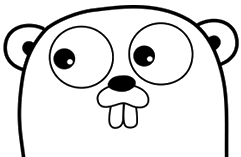
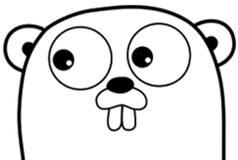
adjust css

diff --git a/web/style.css b/web/style.css
@@ -18,30 +18,38 @@ form.SignInForm, form.SignUpForm{
 	background-color: white;
 	background-origin: content-box;
 	box-shadow: 5px 4px 10px 2px gray;
-	padding-left: 50px;
-	padding-right: 50px;
+	padding-left: 45px;
+	padding-right: 45px;
 	padding-top: 15px;
 	padding-bottom: 25px;
 }
 
 img.SignImg{
-	padding-bottom: 10px;
-	margin-left: 25px;
-	margin-right: 25px;
+	width: 240px;
+	height: 160px;
+	margin-left: 30px;
+	margin-right: 30px;
 	margin-top: 10px;
-	margin-bottom: 5px;
+	margin-bottom: 10px;
 }
 
 input.SignInput{
-	width: 285px;
-	height: 30px;
-}
-
-a.SignUp{
-	font-size: small;	
+	width: 206px;
+	height: 40px;
+	margin-left: 30px;
+	margin-right: 30px;
+	padding-left: 15px;
+	padding-right: 15px;
+	border-width: 2px;
+	border-style: inset;
+	border-color: blue;
+	border-radius: 15px 15px;
 }
 
 #SignButton{
-	width: 300px;
+	width: 240px;
 	height: 40px;
+	margin-left: 30px;
+	margin-right: 30px;
+	font-size: large;
 }

diff --git a/web/index.html b/web/index.html
@@ -8,10 +8,16 @@
 		<meta charset="utf-8" />
 		<link rel="stylesheet" type="text/css" href="style.css" />
 		<link rel="shortcut icon" type="image/x-icon" href="favicon.ico" />
+		<style type="text/css">
+			img.Logo{
+				width: 60px;
+				height: 40px;
+			}
+		</style>
 	</head>
 	
 	<body>
-		<p><img src="head.png" alt="Image loading failure" /></p>
+		<p><img class="Logo" src="head.png" alt="Image loading failure" /></p>
 		<p>
 			<input type="file" title="Upload File" />
 			<input type="button" value="New Folder" />
@@ -25,6 +31,6 @@
 		<p><input type="button" value="Move To" /></p>
 		
 		<input type="checkbox" /><a href="">.</a>
-		
+
 	</body>
 </html>

diff --git a/web/login.html b/web/login.html
@@ -9,6 +9,13 @@
 		<meta charset="utf-8" />
 		<link rel="stylesheet" type="text/css" href="style.css" />
 		<link rel="shortcut icon" type="image/x-icon" href="favicon.ico" />
+		<style type="text/css">
+			form > p > a.SignUp{
+				margin-left: 80px;
+				margin-right: 80px;
+				font-size: small;	
+			}
+		</style>
 	</head>
 
 	<body class="Sign">
